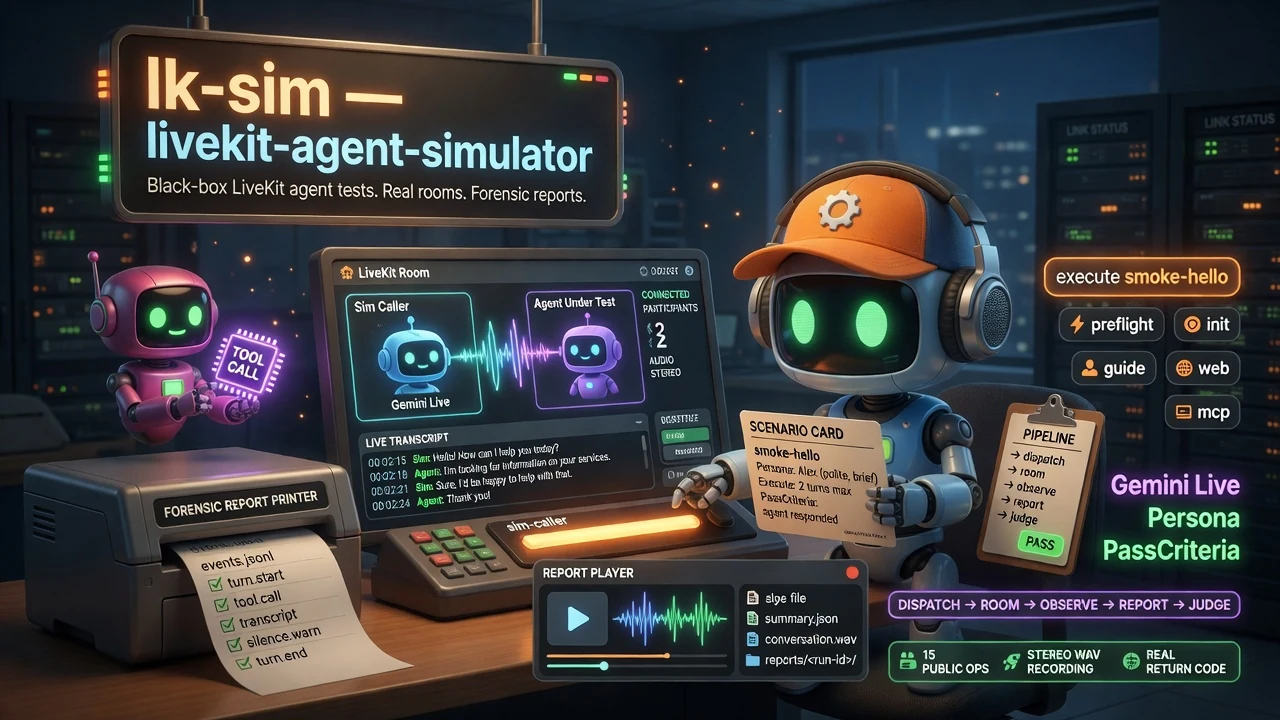
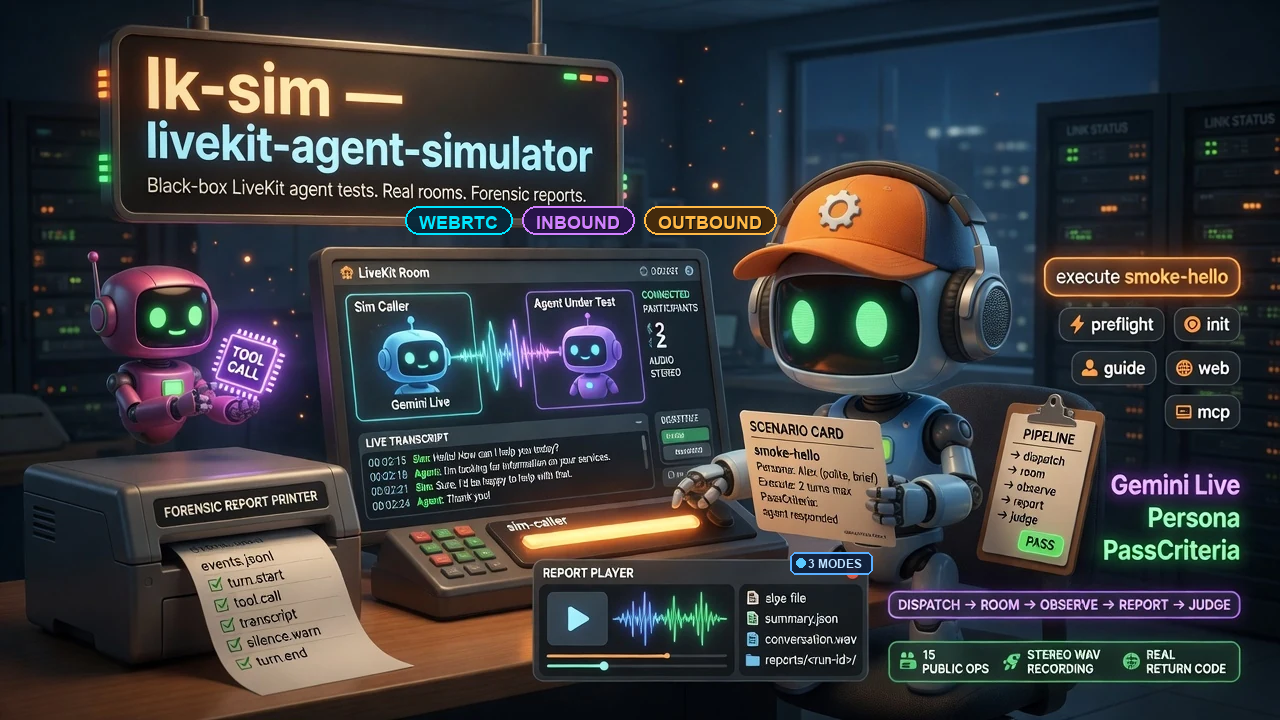
docs: update README to clarify AI caller capabilities and transport modes

Changed region(s): [[0.3125, 0.275, 0.625, 0.3361], [0.5938, 0.7639, 0.6875, 0.825]]

diff --git a/README.md b/README.md
@@ -1,7 +1,7 @@
 # livekit-agent-simulator
 
 <div align="center">
-  <img src="lk_sim_illustration.webp" alt="livekit-agent-simulator — AI caller vs LiveKit voice agent with forensic reports" width="720">
+  <img src="lk_sim_illustration.webp" alt="lk-sim — livekit-agent-simulator: black-box LiveKit agent tests with WebRTC, Inbound, Outbound" width="720">
 </div>
 
 <div align="center">
@@ -14,7 +14,7 @@
 
 </div>
 
-**Dial any LiveKit voice agent with an AI simulated caller — and keep a full forensic log.**  
+**Dial any LiveKit voice agent with an AI simulated caller — WebRTC room, inbound SIP, or outbound SIP — and keep a full forensic log.**  
 Standalone MCP server + CLI (`lk-sim`). Black-box testing: no imports from the agent under test, no edits to its code or `.env`.
 
 <div align="center">
@@ -61,12 +61,13 @@ Voice agents fail in ways unit tests never see:
 
 ### The Solution
 
-**livekit-agent-simulator** joins a fresh LiveKit room as `lk-sim-caller`, drives a Gemini Live persona from a scenario JSONL, observes transcripts / tools / flow / room events, and writes a timestamped report you can play back.
+**livekit-agent-simulator** drives a Gemini Live persona from scenario JSONL over one of three transport modes (`Caller.mode`), observes transcripts / tools / flow / room events, and writes a timestamped report you can play back.
 
 | Surface | What you get |
 |---------|--------------|
 | `lk-sim` CLI | init → preflight → execute → report → web |
 | MCP server | Same ops for Claude Code, Cursor, Codex, … |
+| Transport modes | `webrtc_sim` · `inbound_sip` · `outbound_sip` (optional `agent_dials`) |
 | Reports | `events.jsonl`, `timeline.md`, `summary.json`, optional stereo WAV |
 | Judge | Optional LLM PassCriteria scoring |
 
@@ -75,7 +76,8 @@ Voice agents fail in ways unit tests never see:
 | Feature | What it does |
 |---------|--------------|
 | **Black-box dispatch** | Only needs `agent_name` + LiveKit creds |
-| **Scenario JSONL** | Persona, Execute, Script, PassCriteria, Dispatch |
+| **3 transport modes** | WebRTC room, inbound SIP (sim dials DID), outbound SIP (sim answers) |
+| **Scenario JSONL** | Persona, Caller, Telephony, Execute, Script, PassCriteria, Dispatch |
 | **Forensic log** | Per-turn events in SQLite + `reports/<run-id>/` |
 | **Report player** | Local web UI: audio + transcript sync |
 | **CLI ↔ MCP parity** | One `ops` layer — no duplicate run paths |
@@ -125,28 +127,33 @@ lk-sim web --root /path/to/target          # Ctrl+C to stop
 
 ```text
 1. Read <target>/.agent-sim/config.yaml
-2. Create room lk-sim-<run-id> + RoomAgentDispatch(agent_name)
-3. Join as lk-sim-caller; bridge audio to Gemini Live persona
-4. Observe: lk.transcription, data topics, timing, interruptions
+2. Pick SimLeg from scenario Caller.mode (webrtc_sim | inbound_sip | outbound_sip | agent_dials)
+3. Connect leg → LiveKit room(s) / SIP hairpin as needed; Gemini stays WebRTC in the sim room
+4. Bridge audio; observe transcripts, tools, timing, interruptions
 5. Write reports/<run-id>/ + runs.sqlite
 6. Optional LLM judge vs PassCriteria
 ```
 
 ```text
-┌──────────────────┐     dispatch      ┌──────────────────────┐
-│  Gemini Live     │ ───────────────▶  │  Your LiveKit agent  │
-│  sim caller      │   room audio      │  (black box worker)  │
-│  (scenario)      │ ◀───────────────  │                      │
-└────────┬─────────┘                   └──────────────────────┘
-         │ observe
-         ▼
-┌─────────────────────────────────────┐
-│ reports/<run-id>/                   │
-│  events.jsonl · timeline.md         │
-│  summary.json · conversation.wav    │
-│  + runs.sqlite · optional judge     │
-└─────────────────────────────────────┘
+                    Caller.mode (scenario)
+         ┌───────────────┬────────────────┬───────────────┐
+         │  webrtc_sim   │  inbound_sip   │ outbound_sip  │
+         │  room audio   │  sim dials DID │  sim answers  │
+         └───────┬───────┴────────┬───────┴───────┬───────┘
+                 │                │               │
+                 └────────────────┼───────────────┘
+                                  ▼
+                    ┌──────────────────────────┐
+                    │  Gemini Live persona     │
+                    │  + LiveKit agent (black  │
+                    │    box under test)       │
+                    └────────────┬─────────────┘
+                                 │ observe
+                                 ▼
+                    reports/<run-id>/ · runs.sqlite · judge
 ```
+
+Mode details and config: [docs/telephony.md](docs/telephony.md). Templates: `inbound-caller-sim`, `outbound-callee-sim`.
 
 ---
 